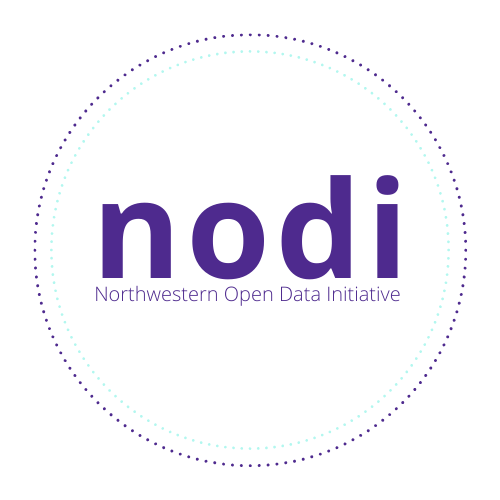
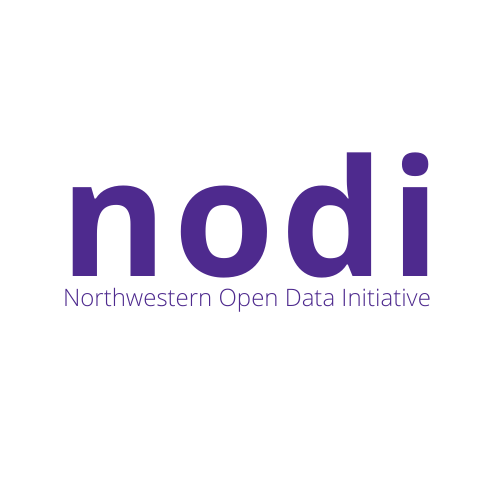
minor UI

diff --git a/src/components/Banner.js b/src/components/Banner.js
@@ -2,15 +2,40 @@ import React, { useState, useEffect } from "react";
 import "semantic-ui-css/semantic.min.css";
 import "../styles/Banner.css";
 import logo from "../NODI.png";
+
+import {
+  Container,
+  Search,
+  Grid,
+  Header,
+  Segment,
+  Row,
+  Button
+} from "semantic-ui-react";
+
 const Banner = () => {
-  //states and such here
   return (
-    <img
-      src={logo}
-      alt="Northwestern Open Data POrtal"
-      height="200"
-      width="200"
-    />
+    <Container className="banner">
+      <img
+        className="logo"
+        src={logo}
+        alt="Northwestern Open Data POrtal"
+        height="300"
+        width="300"
+      />
+      <div class="ui buttons" className="button-group">
+        <button id="buttons" class="ui button">
+          Datasets{" "}
+        </button>
+
+        <button id="buttons" class="ui button">
+          Contribute a Dataset
+        </button>
+        <button id="buttons" class="ui button">
+          About Us
+        </button>
+      </div>
+    </Container>
   );
 };
 

diff --git a/src/components/MainPage.js b/src/components/MainPage.js
@@ -14,10 +14,11 @@ const MainPage = () => {
   //states and such here
   return (
     <Container className="larger-container">
-      <h3> Search for a dataset: </h3>
+      <h3 id="search-bar"> Search for a dataset: </h3>
       <Search
-        className="search-bar"
+        id="search-bar"
         input={{ fluid: true }}
+        placeholder="Ex. 2019 Financial Report"
         /*
           loading={isLoading}
           onResultSelect={this.handleResultSelect}
@@ -29,6 +30,19 @@ const MainPage = () => {
           {...this.props}
           */
       />
+      <div class="ui buttons" className="featured-datasets">
+        <h3> Featured datasets:</h3>
+        <button id="dataset" class="ui button">
+          2019 Financial Report
+        </button>
+
+        <button id="dataset" class="ui button">
+          Admission Rates 2017
+        </button>
+        <button id="dataset" class="ui button">
+          Library Inventory 2000-2010
+        </button>
+      </div>
     </Container>
   );
 };

diff --git a/src/styles/MainPage.css b/src/styles/MainPage.css
@@ -1,8 +1,18 @@
 .larger-container {
-  margin: 10px !important;
+  margin: 100px !important;
   width: 75% !important;
 }
 
 .search-bar {
-  width: 75% !important;
+}
+h3 {
+  font-family: Lato !important;
+}
+
+#dataset {
+  height: 50px;
+  background-color: rgb(198, 178, 212);
+}
+.featured-datasets {
+  margin-top: 100px;
 }

diff --git a/src/styles/Banner.css b/src/styles/Banner.css
@@ -1,7 +1,9 @@
-#nodi {
-  font-family: "Comic Sans MS", "Comic Sans", cursive;
-  font-weight: bold;
-  color: rgb(152, 94, 219);
-  margin: 10px;
-  font-size: 40px;
+.banner {
+  margin-top: -40px !important;
+}
+.button-group {
+  margin-right: 100px;
+  margin-top: -200px;
+  display: flex;
+  justify-content: flex-end;
 }
